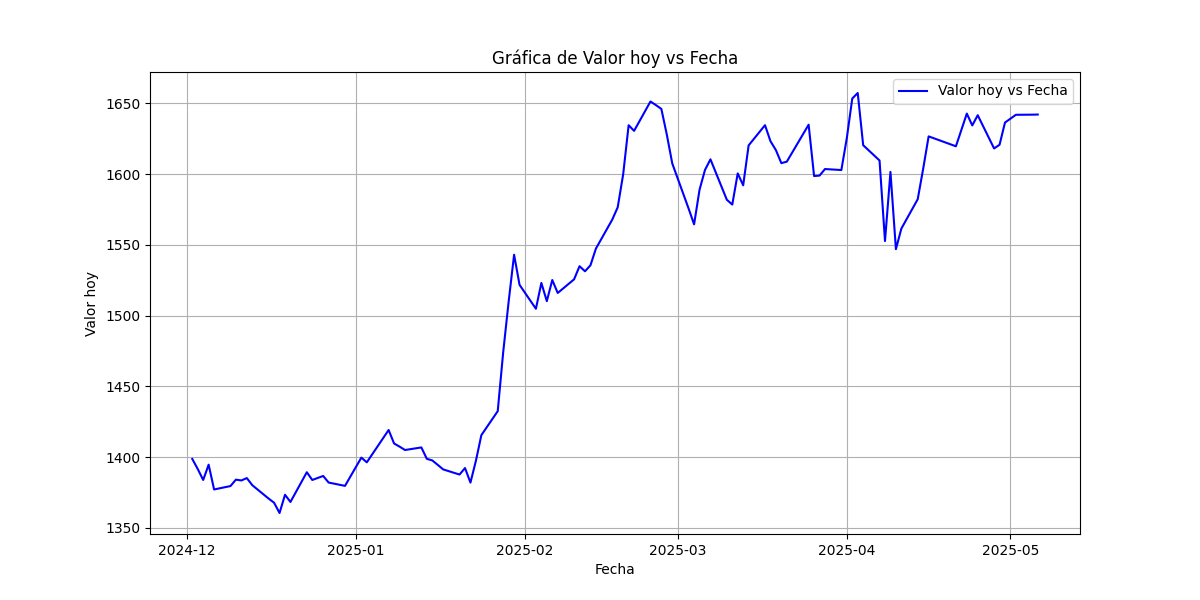
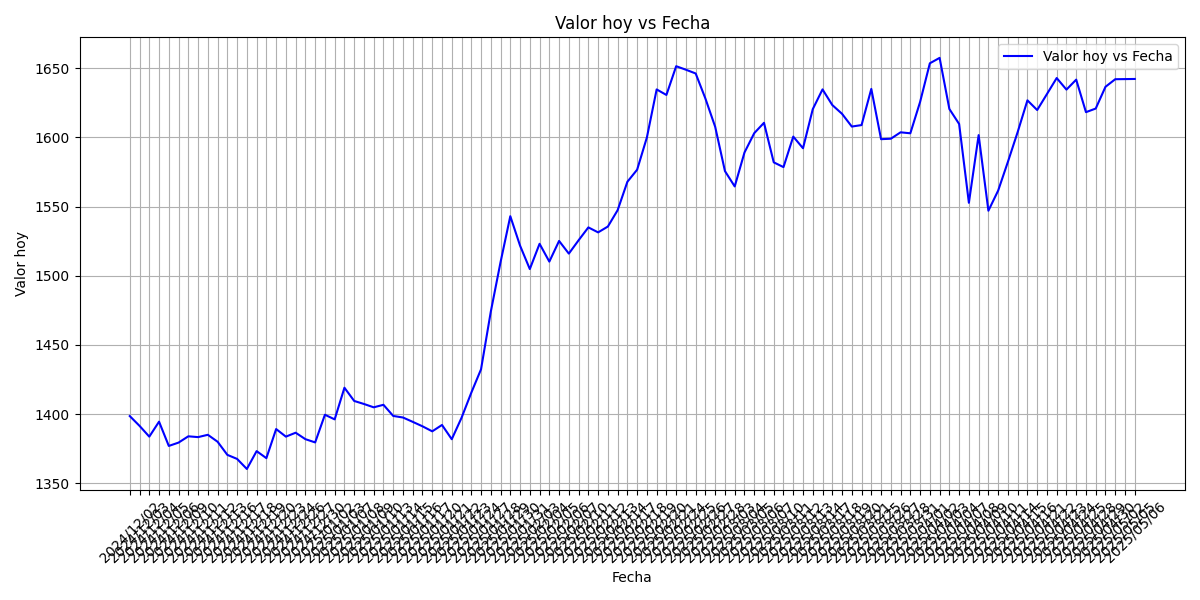
Captura, estadisticas y grafico en la misma pagina

diff --git a/templates/myapp.html b/templates/myapp.html
@@ -21,11 +21,14 @@
 <body class="container py-4">
     <h1 class="mb-4 text-center">Visualizador de datos</h1>
 
+    <!-- Formulario para cargar un nuevo archivo -->
     <form method="POST" enctype="multipart/form-data" class="mb-5">
+        <!-- Campo para cargar archivo -->
         <input type="file" name="file" accept=".csv" required class="form-control mb-3">
         <button type="submit" class="btn btn-primary">Cargar archivo</button>
     </form>
 
+    <!-- Bloque para mostrar la vista previa de los datos -->
     <div class="row justify-content-center">
         {% if dfhead %}
             <div class="col-md-5">
@@ -45,55 +48,49 @@
             </div>
         {% endif %}
     </div>
-    
+
+    <!-- Bloque para mostrar la descripción de los datos -->
     {% if dfdescribe %}
         <h2 class="mb-3 text-center">Descripción de los datos</h2>
         <div class="table-responsive">
             {{ dfdescribe|safe }}
         </div>
     {% endif %}
-    
-    {% if graph_file %}
-        <h2 class="mb-3 text-center">Gráfica de MSCI COLCAP 2025</h2>
-        <div class="text-center mb-4">
-            <img src="{{ graph_file }}" alt="Gráfica" class="img-fluid">
-        </div>
 
-        <h2>Descripcion</h2>
-        <form action="">
-            <div class="mb-3">
-                <label for="analysis" class="form-label">Análisis de la gráfica:</label>
-                <textarea id="analysis" name="analysis" rows="4" class="form-control" readonly>{{ analysis }}</textarea>
+    <!-- Bloque para seleccionar columnas y generar gráfica -->
+    {% if columnas %}
+        <h2 class="mb-3 text-center">Seleccionar columnas para la gráfica</h2>
+        <form method="POST" class="mb-5">
+            <div class="row justify-content-center">
+                <div class="col-md-4">
+                    <label for="x_column" class="form-label">Eje X</label>
+                    <select name="x_column" id="x_column" class="form-select" required>
+                        {% for col in columnas %}
+                            <option value="{{ col }}">{{ col }}</option>
+                        {% endfor %}
+                    </select>
+                </div>
+                <div class="col-md-4">
+                    <label for="y_column" class="form-label">Eje Y</label>
+                    <select name="y_column" id="y_column" class="form-select" required>
+                        {% for col in columnas %}
+                            <option value="{{ col }}">{{ col }}</option>
+                        {% endfor %}
+                    </select>
+                </div>
             </div>
-            <button type="submit" class="btn btn-primary">Enviar análisis</button>
+            <div class="text-center mt-4">
+                <button type="submit" class="btn btn-primary">Generar gráfica</button>
+            </div>
         </form>
     {% endif %}
 
-    {% if columnas %}
-    <h2 class="mb-3 text-center">Seleccionar columnas para la gráfica</h2>
-    <form method="POST" action="/crear_grafica" class="mb-5">
-        <div class="row justify-content-center">
-            <div class="col-md-4">
-                <label for="x_column" class="form-label">Eje X</label>
-                <select name="x_column" id="x_column" class="form-select" required>
-                    {% for col in columnas %}
-                        <option value="{{ col }}">{{ col }}</option>
-                    {% endfor %}
-                </select>
-            </div>
-            <div class="col-md-4">
-                <label for="y_column" class="form-label">Eje Y</label>
-                <select name="y_column" id="y_column" class="form-select" required>
-                    {% for col in columnas %}
-                        <option value="{{ col }}">{{ col }}</option>
-                    {% endfor %}
-                </select>
-            </div>
+    <!-- Bloque para mostrar la gráfica -->
+    {% if graph_file %}
+        <h2 class="mb-3 text-center">Gráfico</h2>
+        <div class="text-center mb-4">
+            <img src="{{ graph_file }}" alt="Gráfica" class="img-fluid">
         </div>
-        <div class="text-center mt-4">
-            <button type="submit" class="btn btn-primary">Generar gráfica</button>
-        </div>
-    </form>
     {% endif %}
 
     <footer class="text-center mt-5">
@@ -101,7 +98,5 @@
     </footer>
 
     <script src="https://cdn.jsdelivr.net/npm/bootstrap@5.3.0-alpha3/dist/js/bootstrap.bundle.min.js"></script>
-    <script src="https://code.jquery.com/jquery-3.6.0.min.js"></script>
-      
 </body>
 </html>

diff --git a/app.py b/app.py
@@ -5,126 +5,101 @@ import matplotlib.pyplot as plt
 import os
 
 app = Flask(__name__)
-app.secret_key = '123'  # Necesario para usar sesiones
+app.secret_key = 'your_secret_key'  # Necesario para usar sesiones
 UPLOAD_FOLDER = 'static'
 
-''' 
-def crear_grafica(df, filename='grafico.png'):
-
-    # Obtener las columnas seleccionadas del formulario
-    x_column = request.form['x_column']
-    y_column = request.form['y_column']
-
-    # Crear un gráfico de líneas para el precio de cierre
-    plt.figure(figsize=(12, 6))
-    plt.plot(df['x_column'], df['y_column'], label=f'{y_column} vs {x_column}', color='blue')
-    plt.title(f'Gráfica de {y_column} vs {x_column}')
-    plt.xlabel(x_column)
-    plt.ylabel(y_column)
-    plt.legend()
-    plt.grid(True)
-    
-    # Guardar la figura
-    graph_path = os.path.join(UPLOAD_FOLDER, filename)
-    plt.savefig(graph_path)
-    plt.close()
-'''
-@app.route('/crear_grafica', methods=['POST'])
-def crear_grafica():
-    try:
-        # Obtener las columnas seleccionadas del formulario
-        x_column = request.form['x_column']
-        y_column = request.form['y_column']
-
-        # Recuperar el archivo CSV desde la sesión
-        file_path = session.get('file_path')
-        if not file_path or not os.path.exists(file_path):
-            return "El archivo CSV no está disponible. Por favor, cargue un archivo nuevamente.", 400
-
-        # Leer el archivo CSV
-        df = pd.read_csv(file_path, parse_dates=['Fecha'], low_memory=False)
-
-        # Crear la gráfica con las columnas seleccionadas
-        plt.figure(figsize=(12, 6))
-        plt.plot(df[x_column], df[y_column], label=f'{y_column} vs {x_column}', color='blue')
-        plt.title(f'Gráfica de {y_column} vs {x_column}')
-        plt.xlabel(x_column)
-        plt.ylabel(y_column)
-        plt.legend()
-        plt.grid(True)
-
-        # Guardar la figura
-        graph_path = os.path.join(UPLOAD_FOLDER, 'grafico_personalizado.png')
-        plt.savefig(graph_path)
-        plt.close()
-
-        # Renderizar la plantilla con la nueva gráfica
-        return render_template('myapp.html', graph_file=graph_path, columnas=df.columns.tolist())
-
-    except Exception as e:
-        return f"Error al generar la gráfica: {str(e)}", 400
-     
 @app.route('/', methods=['GET', 'POST'])
-def upload_csv():
+def upload_and_generate():
+    graph_file = None
+    dfhead_html = None
+    dfdescribe_html = None
+    dfinfo_html = None
+    columnas = None
+
     if request.method == 'POST':
-        # Verificar si se subió un archivo
-        if 'file' not in request.files:
-            return "No se encontró el archivo. Por favor, suba un archivo CSV.", 400
+        if 'file' in request.files:  # Carga inicial del archivo
+            file = request.files['file']
+            if file and file.filename.endswith('.csv'):
+                try:
+                    # Guardar el archivo en el servidor
+                    file_path = os.path.join(UPLOAD_FOLDER, file.filename)
+                    file.save(file_path)
 
-        file = request.files['file']
+                    # Leer el archivo CSV
+                    df = pd.read_csv(file_path)
+                    if df.empty or df.columns.size == 0:
+                        return "El archivo CSV no contiene columnas. Por favor, suba un archivo válido.", 400
 
-        # Verificar si el archivo es un CSV
-        if file and file.filename.endswith('.csv'):
+                    # Guardar la ruta del archivo en la sesión
+                    session['file_path'] = file_path
+
+                    # Generar vista previa, descripción y columnas
+                    dfhead_html = df.head().to_html(classes='table table-striped', index=False)
+                    dfdescribe_html = df.describe(include='all').to_html(classes='table table-striped', index=False)
+
+                    buffer = io.StringIO()
+                    df.info(buf=buffer)
+                    dfinfo_html = f"<pre>{buffer.getvalue()}</pre>"
+
+                    columnas = df.columns.tolist()
+
+                except Exception as e:
+                    return f"Error al procesar el archivo: {str(e)}", 400
+            else:
+                return "Por favor suba un archivo CSV válido.", 400
+
+        elif 'x_column' in request.form and 'y_column' in request.form:  # Generar gráfica
             try:
-                # Guardar el archivo en el servidor
-                file_path = os.path.join(UPLOAD_FOLDER, file.filename)
-                file.save(file_path)
+                # Recuperar el archivo CSV desde la sesión
+                file_path = session.get('file_path')
+                if not file_path or not os.path.exists(file_path):
+                    return "El archivo CSV no está disponible. Por favor, cargue un archivo nuevamente.", 400
 
                 # Leer el archivo CSV
-                try:
-                    df = pd.read_csv(file_path, parse_dates=['Fecha'], low_memory=False)
-                except pd.errors.EmptyDataError:
-                    return "El archivo CSV está vacío. Por favor, suba un archivo válido.", 400
-                except pd.errors.ParserError:
-                    return "El archivo no tiene un formato CSV válido. Por favor, suba un archivo válido.", 400
+                df = pd.read_csv(file_path)
 
-                # Validar que el archivo tenga columnas
-                if df.empty or df.columns.size == 0:
-                    return "El archivo CSV no contiene columnas. Por favor, suba un archivo válido.", 400
+                # Obtener las columnas seleccionadas
+                x_column = request.form['x_column']
+                y_column = request.form['y_column']
 
-                # Guardar la ruta del archivo en la sesión
-                session['file_path'] = file_path
+                # Crear la gráfica
+                plt.figure(figsize=(12, 6))
+                plt.plot(df[x_column], df[y_column], label=f'{y_column} vs {x_column}', color='blue')
+                plt.title(f'{y_column} vs {x_column}')
+                plt.xlabel(x_column)
+                plt.ylabel(y_column)
+                plt.xticks(rotation=45)
+                plt.tight_layout()
+                plt.legend()
+                plt.grid(True)
 
-                # Generar vista previa, descripción y columnas
-                dfhead = df.head()
-                dfhead_html = dfhead.to_html(classes='table table-striped', index=False)
+                # Guardar la figura
+                graph_file = os.path.join(UPLOAD_FOLDER, 'grafico_personalizado.png')
+                plt.savefig(graph_file)
+                plt.close()
 
-                dfdescribe = df.describe(include='all')
-                dfdescribre_html = dfdescribe.to_html(classes='table table-striped', index=False)
+                # Mantener las columnas disponibles para el formulario
+                columnas = df.columns.tolist()
+
+                # Mantener los datos para los bloques if dfhead, if dfinfo, if dfdescribe
+                dfhead_html = df.head().to_html(classes='table table-striped', index=False)
+                dfdescribe_html = df.describe(include='all').to_html(classes='table table-striped', index=False)
 
                 buffer = io.StringIO()
                 df.info(buf=buffer)
-                dfinfo = buffer.getvalue()
-                dfinfo_html = f"<pre>{dfinfo}</pre>"
+                dfinfo_html = f"<pre>{buffer.getvalue()}</pre>"
 
-                columnas = df.columns.tolist()
-
-                # Renderizar la plantilla con las variables necesarias
-                return render_template(
-                    'myapp.html',
-                    graph_file=None,
-                    dfhead=dfhead_html,
-                    dfdescribe=dfdescribre_html,
-                    dfinfo=dfinfo_html,
-                    columnas=columnas
-                )
             except Exception as e:
-                return f"Error al procesar el archivo: {str(e)}", 400
-        else:
-            return "Por favor suba un archivo CSV válido.", 400
+                return f"Error al generar la gráfica: {str(e)}", 400
 
-    return render_template('myapp.html')
-
+    return render_template(
+        'myapp.html',
+        graph_file=graph_file,
+        dfhead=dfhead_html,
+        dfdescribe=dfdescribe_html,
+        dfinfo=dfinfo_html,
+        columnas=columnas
+    )
 
 if __name__ == '__main__':
     app.run(debug=True, port=5000)
